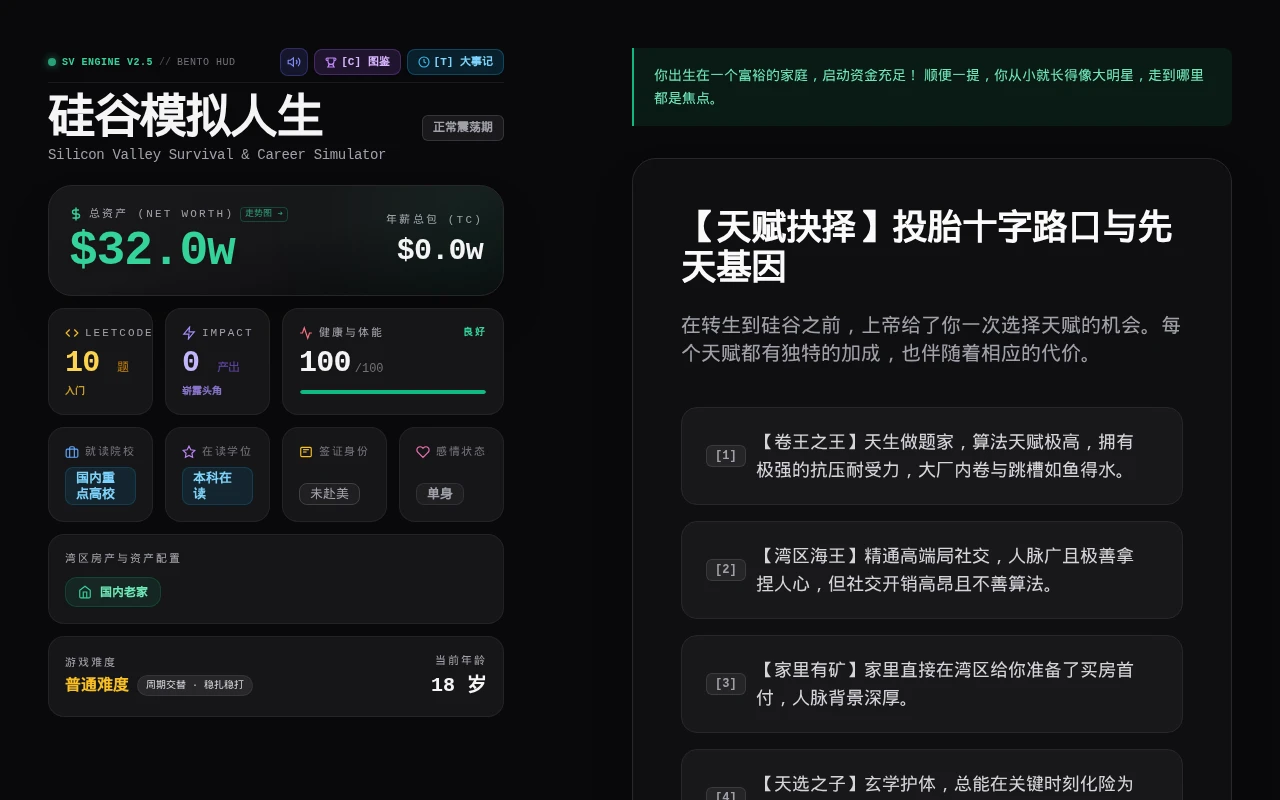
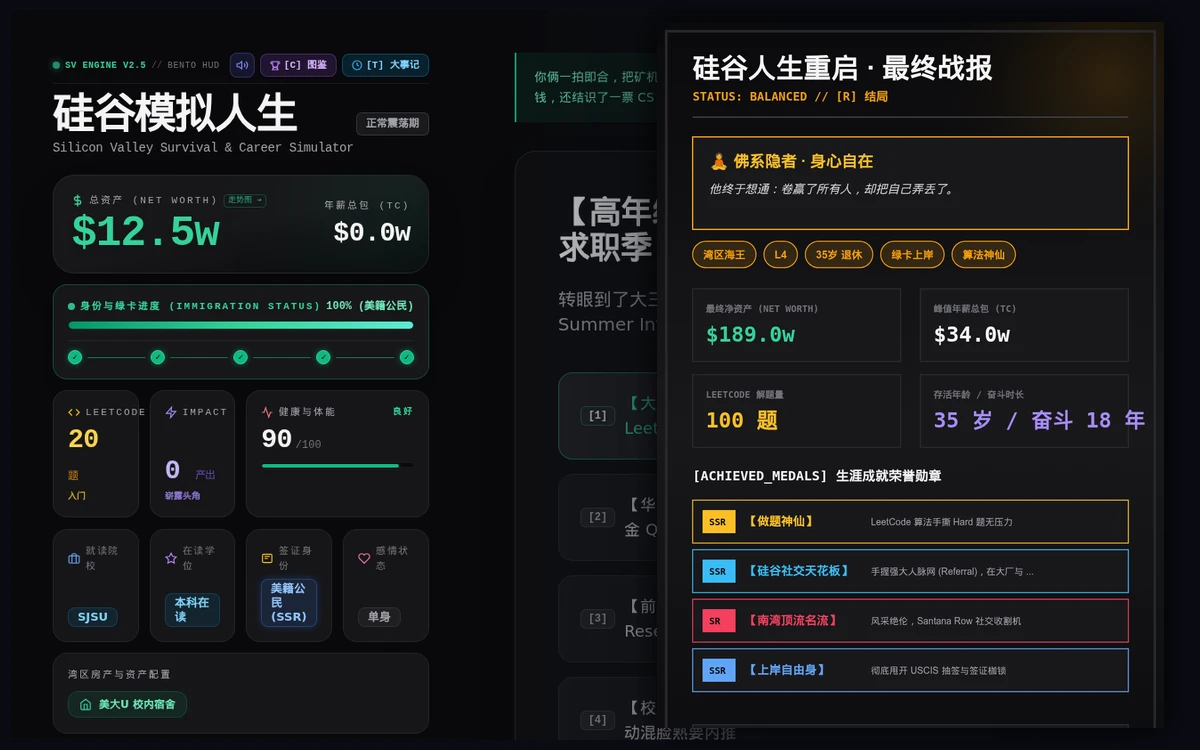
Fix CSS cache busting and update SV Life Reboot preview with War Report poster

diff --git a/_includes/head.html b/_includes/head.html
@@ -10,7 +10,7 @@
   <link rel="preconnect" href="https://fonts.gstatic.com" crossorigin>
   <link href="https://fonts.googleapis.com/css2?family=Inter:wght@400;500;600;700;800&family=JetBrains+Mono:wght@400;500&display=swap" rel="stylesheet">
 
-  <link rel="stylesheet" href="{{ "/css/main.css" | prepend: site.baseurl }}">
+  <link rel="stylesheet" href="{{ "/css/main.css" | prepend: site.baseurl }}?v={{ site.time | date: '%s' }}">
   <link rel="canonical" href="{{ page.url | replace:'index.html','' | prepend: site.baseurl | prepend: site.url }}">
   <link rel="alternate" type="application/rss+xml" title="{{ site.title }}" href="{{ "/feed.xml" | prepend: site.baseurl | prepend: site.url }}">
 </head>

diff --git a/css/main.scss b/css/main.scss
@@ -27,6 +27,12 @@
   padding: 0;
 }
 
+img {
+  max-width: 100%;
+  height: auto;
+  display: block;
+}
+
 html {
   scroll-behavior: smooth;
 }
@@ -298,6 +304,8 @@ code {
 
 .bento-card {
   grid-column: span 2;
+  min-width: 0;
+  overflow: hidden;
   background: var(--bg-card);
   border: 1px solid var(--border);
   border-radius: var(--radius);
